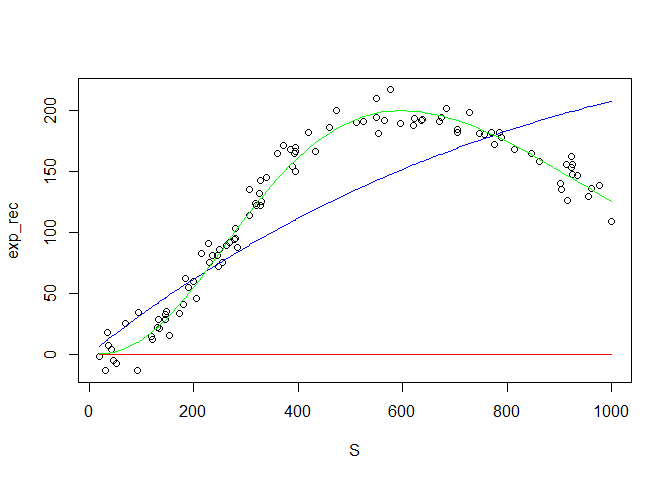
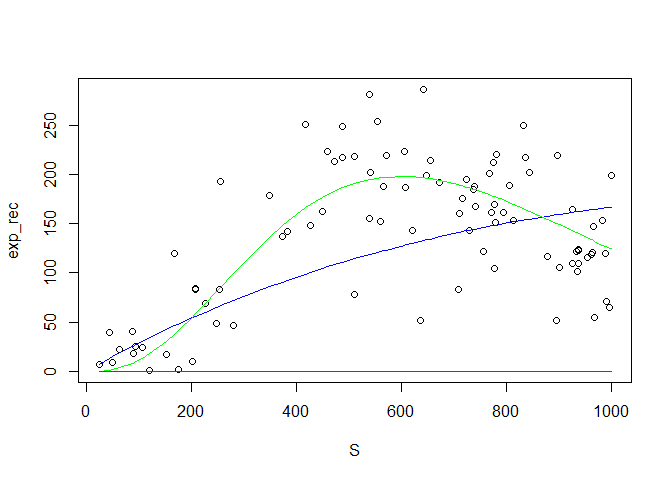
edits for calrity

diff --git a/parameterizations.md b/parameterizations.md
@@ -1,20 +1,17 @@
-Various stock recruit relationships for depensatory dynamics
+Various spawner recruit relationships for depensatory dynamics
 ================
 
-``` r
-library(tidyverse)
-```
+# Background
 
-## Background
-
-Here we explore various paramaterizations of stock recruit relationships
+Here we explore various parameterizations of stock recruit relationships
 (SRRs) that show evidence of depensation. There are many
-parameterizaitons for both Ricker and Beverton-Holt type SRRs but we
-will focus on some basics. Most of these derivations arise from a need
-for how to treat the depensatory parameter, with some having a goal of
-making the depensatory parameter “biologically relevant”.
+parameterizaitons for both Ricker and Beverton-Holt type spawner recruit
+relationships (SRRs) but we will focus on some basics. Most of these
+derivations arise from a need for how to treat the depensatory
+parameter, with some having a goal of making the depensatory parameter
+“biologically relevant”.
 
-### Ricker based SRRs
+## Ricker based SRRs
 
 There are 3 types we will explore here.  
 - original [Ricker](https://cdnsciencepub.com/doi/10.1139/f54-039) from
@@ -22,7 +19,7 @@ There are 3 types we will explore here.
 - depensatory Ricker ([Quinn & Deriso,
 1999](https://books.google.ca/books/about/Quantitative_Fish_Dynamics.html?id=5FVBj8jnh6sC&redir_esc=y),
 p. 99)  
-- Saila-Lorda (as described in [Perala & Kuparinen,
+- Saila-Lorda (as described in [Perälä & Kuparinen,
 2017](http://dx.doi.org/10.1098/rspb.2017.1284))
 
 To understand these models we’ll describe their structure, simulate data
@@ -30,195 +27,148 @@ based on the Saila-Lorda then fit each SRR to the simulated data.
 
 #### Original Ricker
 
-![ R = \\alpha Se^{-\\beta S} ](https://latex.codecogs.com/png.image?%5Cdpi%7B110%7D&space;%5Cbg_white&space;%20R%20%3D%20%5Calpha%20Se%5E%7B-%5Cbeta%20S%7D%20 " R = \alpha Se^{-\beta S} ")
-
-  
-where
-![\\alpha](https://latex.codecogs.com/png.image?%5Cdpi%7B110%7D&space;%5Cbg_white&space;%5Calpha "\alpha")
-is the slope near the origin and
-![\\beta](https://latex.codecogs.com/png.image?%5Cdpi%7B110%7D&space;%5Cbg_white&space;%5Cbeta "\beta")
-is the density dependent parameter. There is no term for density
-dependence in this equation, but we will use it to compare. The Ricker
-SRR is also popular because it can be transformed to be linear:  
-
-![ log(R/S) = \\alpha - \\beta S ](https://latex.codecogs.com/png.image?%5Cdpi%7B110%7D&space;%5Cbg_white&space;%20log%28R%2FS%29%20%3D%20%5Calpha%20-%20%5Cbeta%20S%20 " log(R/S) = \alpha - \beta S ")
+$$ R = \alpha Se^{-\beta S} $$  
+where $\alpha$ is the slope near the origin and $\beta$ is the density
+dependent parameter. There is no term for density dependence in this
+equation, but we will use it to compare. The Ricker SRR is also popular
+because it can be made linear:  
+$$ log(R/S) = \alpha - \beta S $$
 
 #### Quinn & Deriso’s 4 parameter depensatory Ricker SRR
 
-![ R = \\alpha Se^{\\beta S - \\delta S^{\\gamma }} ](https://latex.codecogs.com/png.image?%5Cdpi%7B110%7D&space;%5Cbg_white&space;%20R%20%3D%20%5Calpha%20Se%5E%7B%5Cbeta%20S%20-%20%5Cdelta%20S%5E%7B%5Cgamma%20%7D%7D%20 " R = \alpha Se^{\beta S - \delta S^{\gamma }} ")
-
-The authors say that this model is depensatory when
-![S^{\\gamma -1} \< \\beta / (\\gamma \\delta)](https://latex.codecogs.com/png.image?%5Cdpi%7B110%7D&space;%5Cbg_white&space;S%5E%7B%5Cgamma%20-1%7D%20%3C%20%5Cbeta%20%2F%20%28%5Cgamma%20%5Cdelta%29 "S^{\gamma -1} < \beta / (\gamma \delta)"),
-which isn’t very intuitive, which brings us to the next model.
+$$ R = \alpha Se^{\beta S - \delta S^{\gamma }} $$ The authors say that
+this model is depensatory when
+$S^{\gamma -1} < \beta / (\gamma \delta)$, which isn’t very intuitive,
+which brings us to the next model.
 
 #### Salia-Lorda SRR
 
-![ R\_{t} = k(\\frac{S\_{t}}{S\_{k}})^{C}e^{C (1-S\_{t}/S\_{k})} ](https://latex.codecogs.com/png.image?%5Cdpi%7B110%7D&space;%5Cbg_white&space;%20R_%7Bt%7D%20%3D%20k%28%5Cfrac%7BS_%7Bt%7D%7D%7BS_%7Bk%7D%7D%29%5E%7BC%7De%5E%7BC%20%281-S_%7Bt%7D%2FS_%7Bk%7D%29%7D%20 " R_{t} = k(\frac{S_{t}}{S_{k}})^{C}e^{C (1-S_{t}/S_{k})} ")
-
-where
-![R\_{t}](https://latex.codecogs.com/png.image?%5Cdpi%7B110%7D&space;%5Cbg_white&space;R_%7Bt%7D "R_{t}")
-and
-![S\_{t}](https://latex.codecogs.com/png.image?%5Cdpi%7B110%7D&space;%5Cbg_white&space;S_%7Bt%7D "S_{t}")
-are vectors of recruits and spawners at time *t*, *k* is the maximum
-number of recruits produced when
-![S\_{t} = S\_{k}](https://latex.codecogs.com/png.image?%5Cdpi%7B110%7D&space;%5Cbg_white&space;S_%7Bt%7D%20%3D%20S_%7Bk%7D "S_{t} = S_{k}")
-and
-![S\_{k}](https://latex.codecogs.com/png.image?%5Cdpi%7B110%7D&space;%5Cbg_white&space;S_%7Bk%7D "S_{k}")
-is is the spawning stock at which the number of recruits is *k*. *c* is
-the depensatory parameter; *c* = 1 produces the classic Ricker, *c* \> 1
-shows depensatory dynamics, and *c* \< 1 shows hypercompensaiton.
+$$ R_{t} = k(\frac{S_{t}}{S_{k}})^{c}e^{c (1-S_{t}/S_{k})} $$ where
+$R_{t}$ and $S_{t}$ are vectors of recruits and spawners at time *t*,
+*k* is the maximum number of recruits produced when $S_{t} = S_{k}$ and
+$S_{k}$ is is the spawning stock at which the number of recruits is *k*.
+*c* is the depensatory parameter; *c* = 1 produces the classic Ricker,
+*c* \> 1 shows depensatory dynamics, and *c* \< 1 shows
+hypercompensaiton.
 
 ## Simulation
 
-We’ll simulate some data to play with. FEEL FREE to toggle the
-parameters (i.e. S, Sk, k, c, sigma), they will cascade through the
-robust code
+We’ll simulate some data from a Salia-Lorda to play with. FEEL FREE to
+toggle the parameters (i.e. S, Sk, k, c, sigma), they will cascade
+through the robust code
 
 ``` r
-sal_lor <- function(S, Sk, k, c, sigma){
-  exp_rec <- ((k*(S/Sk)^c)*exp(c*(1-S/Sk))+sigma)
-  return(exp_rec)
-}
-  
-S <- runif(100, 10, 1000)
-Sk <- 600
+S <- runif(100, 10, 1000) #vector of random spawners
+Sk <- 600 
 k <- 200
 c <- 3
-sigma <- rnorm(length(S), 0, 10)
-
-exp_rec <- sal_lor(S, Sk, k, c, sigma)
-
-plot(S, exp_rec)
+sigma <- rnorm(length(S), 0, 50) #random white noise error
 ```
 
-![](parameterizations_files/figure-gfm/write%20fun-1.png)<!-- -->
-
-``` r
-sim_stock <- data.frame(stock = S, recruits = exp_rec)
-```
+![](parameterizations_files/figure-gfm/write%20fun%20plot%20sim-1.png)<!-- -->
 
 ## Fit simulated data
 
 Can fit a Ricker here the “old fashioned” way by making it linear.
 
-``` r
-rick_fit <- lm(log(recruits/stock)~stock, data = sim_stock)
-```
+    ##                  Estimate  Std. Error   t value     Pr(>|t|)
+    ## (Intercept) -1.1899670783 0.192732992 -6.174174 1.997291e-08
+    ## stock       -0.0005986825 0.000288357 -2.076185 4.079403e-02
 
-    ## Warning in log(recruits/stock): NaNs produced
-
-``` r
-summary(rick_fit)$coefficients
-```
-
-    ##                  Estimate   Std. Error   t value     Pr(>|t|)
-    ## (Intercept) -1.0819749957 0.0782836899 -13.82121 2.843087e-24
-    ## stock       -0.0004875064 0.0001435155  -3.39689 1.004382e-03
-
-now we can use optim to fit a non linear Quinn & Deriso model
-
-``` r
-QDLogLike <- function(parms){
-  alpha <- parms[1]
-  beta <- parms[2]
-  delta <- parms[3]
-  gamma <- parms[4]
-  sd <- exp(parms[5])
-  
-  predicted <- alpha*sim_stock$stock*exp((beta*sim_stock$stock)-(delta*sim_stock$stock^gamma))
-  
-  NegLogLike <- -sum(log(dnorm(sim_stock$recruits, predicted, sd= sd)))
-  return(NegLogLike)
-}
-
-#declare start parms - guess based on previous fit 
-alpha <- exp(summary(rick_fit)$coefficients[1])
-beta <- -summary(rick_fit)$coefficients[2]
-delta <- 1
-gamma <- 1
-sd <- log(10)
-
-parms <- list(alpha, beta, delta, gamma, sd)
-
-QD_fit <- optim(parms, QDLogLike, method="Nelder-Mead", hessian=TRUE)
-
-QD_fit$par
-```
-
-    ## [1]  0.3156333 -1.6247348  0.3445702  1.2789218  4.9118483
-
-Now we’ll refit the Salia-Lorda
-
-``` r
-SLLogLike <- function(parms){
-  Sk <- parms[1]
-  k <- parms[2]
-  c <- parms[3]
-  sd <- exp(parms[4])
-  
-  predicted <- ((k*(sim_stock$stock/Sk)^c)*exp(c*(1-sim_stock$stock/Sk)))  
-  NegLogLike <- -sum(log(dnorm(sim_stock$recruits, predicted, sd= sd)))
-  return(NegLogLike)
-}
-#Sk <- 1000 #tester - this is finnecky! and changes results - must be hitting local minima
-parms <- list(Sk, k, c, sd) #can recycle from above
-
-SL_fit <- optim(parms, SLLogLike, method="Nelder-Mead", hessian=TRUE)
-cbind(c("SK", "k", "c", "sd"), SL_fit$par)
-```
-
-    ##      [,1] [,2]              
-    ## [1,] "SK" "593.445302506936"
-    ## [2,] "k"  "200.330073804739"
-    ## [3,] "c"  "2.95127637263951"
-    ## [4,] "sd" "2.31327913182608"
+now we can use optim to fit a non linear Quinn & Deriso model  
+<table>
+<tbody>
+<tr>
+<td style="text-align:left;">
+Sk
+</td>
+<td style="text-align:left;">
+-0.42
+</td>
+</tr>
+<tr>
+<td style="text-align:left;">
+k
+</td>
+<td style="text-align:left;">
+-0.47
+</td>
+</tr>
+<tr>
+<td style="text-align:left;">
+c
+</td>
+<td style="text-align:left;">
+0.08
+</td>
+</tr>
+<tr>
+<td style="text-align:left;">
+sd
+</td>
+<td style="text-align:left;">
+0.84
+</td>
+</tr>
+<tr>
+<td style="text-align:left;">
+Sk
+</td>
+<td style="text-align:left;">
+5.05
+</td>
+</tr>
+</tbody>
+</table>
+Now we’ll refit the Salia-Lorda and plot the results
+<table>
+<tbody>
+<tr>
+<td style="text-align:left;">
+Sk
+</td>
+<td style="text-align:left;">
+563.01
+</td>
+</tr>
+<tr>
+<td style="text-align:left;">
+k
+</td>
+<td style="text-align:left;">
+198.41
+</td>
+</tr>
+<tr>
+<td style="text-align:left;">
+c
+</td>
+<td style="text-align:left;">
+2.87
+</td>
+</tr>
+<tr>
+<td style="text-align:left;">
+sd
+</td>
+<td style="text-align:left;">
+3.82
+</td>
+</tr>
+</tbody>
+</table>
 
 Now we’ll generate model predictions from the parameter fits
 
-``` r
-r_alpha <- exp(summary(rick_fit)$coefficients[1])
-r_beta <- summary(rick_fit)$coefficients[2]
-
-rick_preds <- r_alpha*sim_stock$stock*exp(r_beta*sim_stock$stock)
-rick_preds <- data.frame(fit = rick_preds, S = S) %>%
-  arrange(S)
-
-QD_alpha <- QD_fit$par[1]
-QD_beta <- QD_fit$par[2]
-QD_delta <- QD_fit$par[3]
-QD_gamma <- QD_fit$par[4]
-
-QD_preds <- QD_alpha*sim_stock$stock*exp((QD_beta*sim_stock$stock)-(QD_delta*sim_stock$stock^QD_gamma))
-QD_preds <- data.frame(fit = QD_preds, S = S) %>%
-  arrange(S) 
-SL_Sk <- SL_fit$par[1]
-SL_k <- SL_fit$par[2]
-SL_c <- SL_fit$par[3]
-
-SL_preds <- ((SL_k*(sim_stock$stock/Sk)^c)*exp(c*(1-sim_stock$stock/Sk)))  
-
-SL_preds <- data.frame(fit = SL_preds, S = S) %>%
-  arrange(S)
-```
-
 Then plot it
-
-``` r
-plot(S, exp_rec)
-lines(fit~S, data = rick_preds, col = "blue")
-lines(fit~S, data = SL_preds, col = "green")
-lines(fit~S, data = QD_preds, col = "red") #Something's messed up with the QD model!
-```
-
 ![](parameterizations_files/figure-gfm/plot%20fits-1.png)<!-- -->
 
 ## To-do
 
--   Clip the negative recruits out of the simulation!  
--   Fix the 4 parameter Ricker from Quinn & Deriso so it actually
-    fits!  
--   Play around with different solvers (e.g. `nlme()`?) because
-    `optim()` is very sensitive to starting parameters in these models
+- Clip the negative recruits out of the simulation!  
+- Fix the 4 parameter Ricker from Quinn & Deriso so it actually fits!  
+- Play around with different solvers (e.g. `nlme()`?) because `optim()`
+  is very sensitive to starting parameters in these models
 
 we could add variations of the Beverton-Holt, which are generally easier
 to fit. These could include:  
